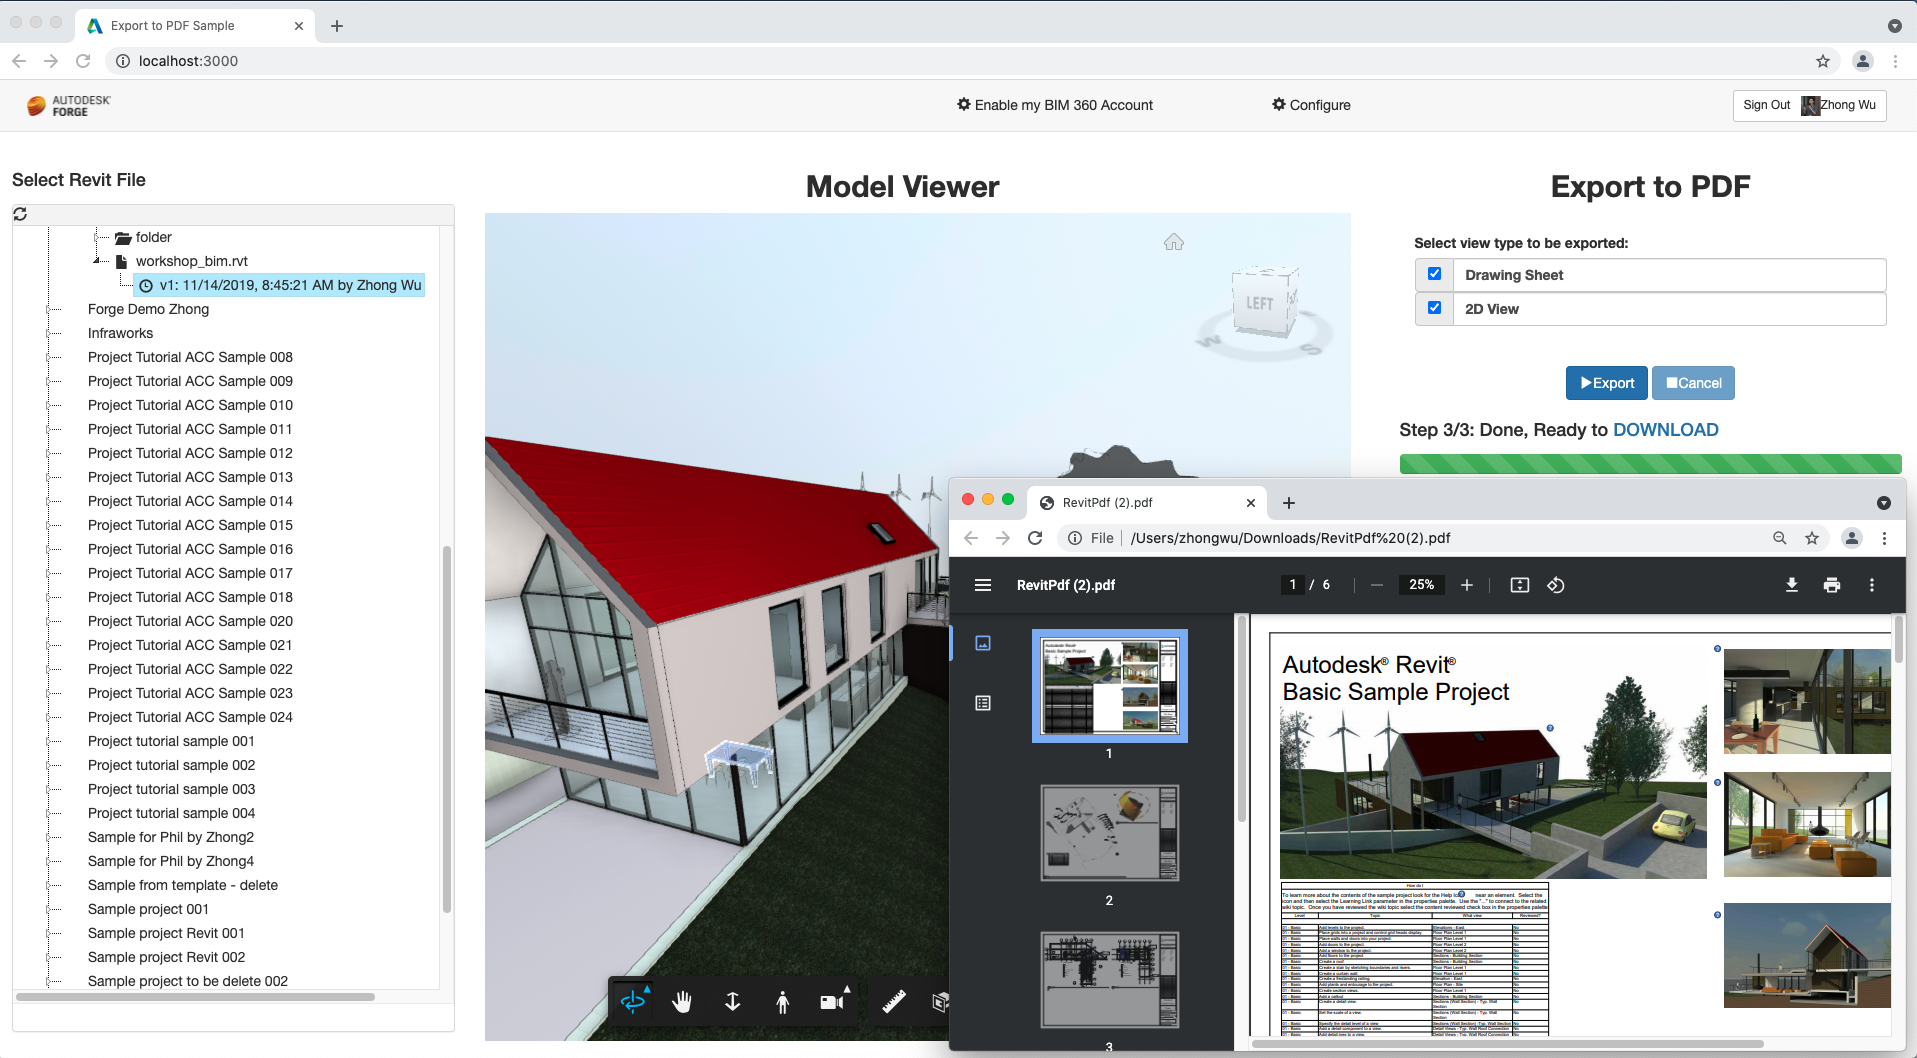
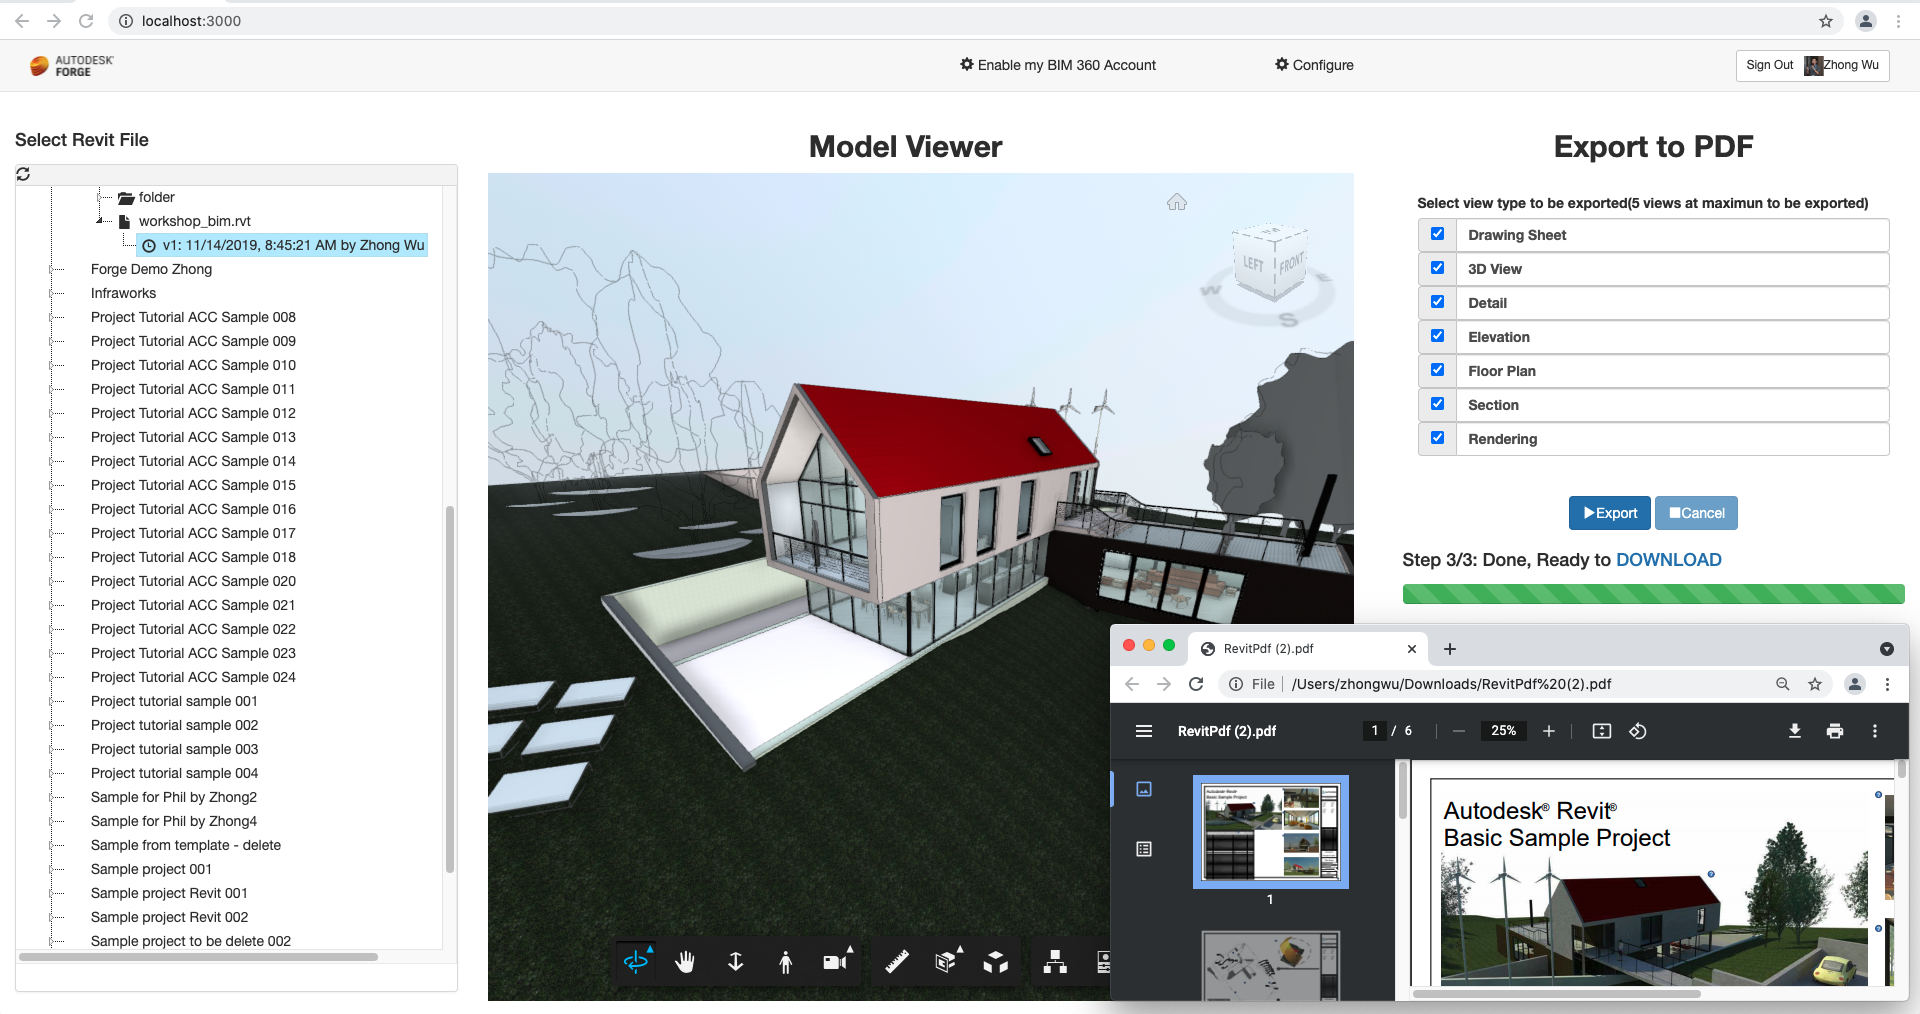
improve changes

diff --git a/public/index.html b/public/index.html
@@ -120,89 +120,121 @@
         <div class="row ">
           <div style="padding-top: 10px; text-align: center;">
             <form class="bs-example bs-example-form" role="form">
-                <div class="row">
-                  <div style="padding-top: 10px; text-align: left;">
-                      <div class="col-lg-12">
-                          <div style="text-align: left;">
-                              <label>Select view type to be exported:</label>
-                        </div>
-                        <div class="input-group">
-                          <span class="input-group-addon">
-                              <input type="checkbox" id='drawingSheet' checked=true>
-                          </span>
-                          <label class="form-control">Drawing Sheet</label>
-                      </div><!-- /input-group -->
-                      <div class="input-group">
-                        <span class="input-group-addon">
-                            <input type="checkbox" id='scheduleTable' checked=true>
-                        </span>
-                        <label class="form-control">2D View</label>
-                    </div><!-- /input-group -->
-                      </div>
-                  </div>
-              </div>
-            <br>
-                <div class="row" hidden>
-                    <div style="padding-top: 10px; text-align: left;">
-                        <div class="col-lg-12">
-                            <div style="text-align: left;">
-                                <label>Export or Import:</label>
-                          </div>
-                            <div class="input-group">
-                                <span class="input-group-addon">
-                                    <input type="radio" name='exportOrImport' value='export' checked>
-                                </span>
-                                <label class="form-control">Export parameters To Excel</label>
-                            </div><!-- /input-group -->
-                            <div class="input-group">
-                                <span class="input-group-addon">
-                                    <input type="radio" name='exportOrImport' value='import'>
-                                </span>
-                                <label class="form-control">Import parameters from Excel</label>
-                            </div><!-- /input-group -->                          
-                            <div class="form-group" id="importSharedParameters" hidden>
-                                <label for="inputFile">Input Spreadsheet file( Please export first to check the Excel format )</label>
-                                <input type="file" class="form-control-file" id="inputFile">
-                            </div>
-                        </div>
+              <div class="row">
+                <div style="padding-top: 10px; text-align: left;">
+                  <div class="col-lg-12">
+                    <div style="text-align: left;">
+                      <label>Select view types</label>
                     </div>
+                    <div class="input-group">
+                      <span class="input-group-addon">
+                        <input type="checkbox" id='drawingSheet' checked=true>
+                      </span>
+                      <label class="form-control">Drawing Sheet</label>
+                    </div><!-- /input-group -->
+                    <div class="input-group">
+                      <span class="input-group-addon">
+                        <input type="checkbox" id='threeD' checked=true>
+                      </span>
+                      <label class="form-control">3D View</label>
+                    </div><!-- /input-group -->
+                    <div class="input-group">
+                      <span class="input-group-addon">
+                        <input type="checkbox" id='detail' checked=true>
+                      </span>
+                      <label class="form-control">Detail</label>
+                    </div><!-- /input-group -->
+                    <div class="input-group">
+                      <span class="input-group-addon">
+                        <input type="checkbox" id='elevation' checked=true>
+                      </span>
+                      <label class="form-control">Elevation</label>
+                    </div><!-- /input-group -->
+                    <div class="input-group">
+                      <span class="input-group-addon">
+                        <input type="checkbox" id='floorPlan' checked=true>
+                      </span>
+                      <label class="form-control">Floor Plan</label>
+                    </div><!-- /input-group -->
+                    <div class="input-group">
+                      <span class="input-group-addon">
+                        <input type="checkbox" id='section' checked=true>
+                      </span>
+                      <label class="form-control">Section</label>
+                    </div><!-- /input-group -->
+                    <div class="input-group">
+                      <span class="input-group-addon">
+                        <input type="checkbox" id='rendering' checked=true>
+                      </span>
+                      <label class="form-control">Rendering</label>
+                    </div><!-- /input-group -->
+                    <div style="text-align: left;">
+                      <label>Note: Only 5 views at maximun can be exported by this sample  </label>
+                    </div>
+                  </div>
                 </div>
+              </div>
+              <br>
+              <div class="row" hidden>
+                <div style="padding-top: 10px; text-align: left;">
+                  <div class="col-lg-12">
+                    <div style="text-align: left;">
+                      <label>Export or Import:</label>
+                    </div>
+                    <div class="input-group">
+                      <span class="input-group-addon">
+                        <input type="radio" name='exportOrImport' value='export' checked>
+                      </span>
+                      <label class="form-control">Export parameters To Excel</label>
+                    </div><!-- /input-group -->
+                    <div class="input-group">
+                      <span class="input-group-addon">
+                        <input type="radio" name='exportOrImport' value='import'>
+                      </span>
+                      <label class="form-control">Import parameters from Excel</label>
+                    </div><!-- /input-group -->
+                    <div class="form-group" id="importSharedParameters" hidden>
+                      <label for="inputFile">Input Spreadsheet file( Please export first to check the Excel format )</label>
+                      <input type="file" class="form-control-file" id="inputFile">
+                    </div>
+                  </div>
+                </div>
+              </div>
             </form>
             <!-- </div> -->
-
-
+        
+        
             <div class="btn-group btn-lg">
-
-                <div style="padding-top: 10px;">
-
-                  <button class="btn btn-primary" id="startWorkitem">
-                    <span class="glyphicon glyphicon-play"></span>Export
-                  </button>
-                  <button class="btn btn-primary" id="cancelBtn" disabled>
-                    <span class="glyphicon glyphicon-stop"></span>Cancel
-                  </button>
-                </div>
+        
+              <div style="padding-top: 10px;">
+        
+                <button class="btn btn-primary" id="startWorkitem">
+                  <span class="glyphicon glyphicon-play"></span>Export
+                </button>
+                <button class="btn btn-primary" id="cancelBtn" disabled>
+                  <span class="glyphicon glyphicon-stop"></span>Cancel
+                </button>
               </div>
-            <br />       
+            </div>
+            <br />
             <div class="row">
-                <div style="text-align: left;">
-                  <label id="statusText">
-                    <h4>Progress</h4>
-                  </label>
+              <div style="text-align: left;">
+                <label id="statusText">
+                  <h4>Progress</h4>
+                </label>
+              </div>
+            </div>
+            <div class="row">
+              <div>
+                <div class="progress progress-striped active">
+                  <div id='parametersUpdateProgressBar' class="progress-bar progress-bar-success" role="progressbar"
+                    aria-valuenow="60" aria-valuemin="0" aria-valuemax="100" style="width: 0%;">
+                    <span class="sr-only">40% 完成</span>
+                  </div>
                 </div>
               </div>
-              <div class="row">
-                <div>
-                    <div class="progress progress-striped active">
-                        <div id='parametersUpdateProgressBar' class="progress-bar progress-bar-success" role="progressbar"
-                             aria-valuenow="60" aria-valuemin="0" aria-valuemax="100"
-                             style="width: 0%;">
-                            <span class="sr-only">40% 完成</span>
-                        </div>
-                    </div>
-                </div>
-              </div>                
-
+            </div>
+        
           </div>
         </div>
       </div>

diff --git a/public/js/ForgeDesignAutomation.js b/public/js/ForgeDesignAutomation.js
@@ -28,7 +28,7 @@ $(document).ready(function () {
         }
     });
 
-    $('#startWorkitem').click(startWorkitem);
+    $('#startWorkitem').click(export2Pdf);
     $('#cancelBtn').click(async function(){
         if (workingItem != null) {
             try {
@@ -94,7 +94,7 @@ socketio.on(SOCKET_TOPIC_WORKITEM, (data)=>{
 
 
 
-async function startWorkitem() {
+async function export2Pdf() {
     const instanceTree = $('#sourceHubs').jstree(true);
     if( instanceTree == null ){
         alert('Can not get the user hub');
@@ -120,41 +120,35 @@ async function startWorkitem() {
         return;
     }
 
-    // exporting = $('input[name="exportOrImport"]:checked').val() === 'export';
     const drawingSheet = $('#drawingSheet')[0].checked;
-    const scheduleTable = $('#scheduleTable')[0].checked;
+    const threeD    = $('#threeD')[0].checked;
+    const detail    = $('#detail')[0].checked;
+    const elevation = $('#elevation')[0].checked;
+    const floorPlan = $('#floorPlan')[0].checked;
+    const section   = $('#section')[0].checked;
+    const rendering = $('#rendering')[0].checked;
 
-    if( !drawingSheet && !scheduleTable ){
+    if( !drawingSheet && !threeD && !detail && !elevation && !floorPlan){
         alert('Please at least select one parameter you want to Export|Import');
         return;
     }
 
     const inputJson = { 
         DrawingSheet : drawingSheet,
-        ScheduleTable: scheduleTable
+        ThreeD: threeD,
+        Detail: detail,
+        Elevation:elevation,
+        FloorPlan:floorPlan,
+        Section:section,
+        Rendering:rendering
       };
 
       
     try {
         let res = null;
-        // if(exporting){
-            updateStatus('started');
-            res = await exportToPdfs( sourceNode.original.storage, inputJson );
-            console.log('The pdf file is exported');
-        // }
-        // else {
-        //     if (_fileInputForm == null || _fileInputForm.files.length === 0){
-        //         alert('Please select input Excel first');
-        //         return;
-        //     }
-        //     updateStatus('started');
-        //     var file = _fileInputForm.files[0];
-        //     const storageUrl = await uploadExcel(file);
-        //     console.log( storageUrl );
-        //     // updateStatus('uploaded');
-        //     res = await importExcel( sourceNode.original.storage, storageUrl , inputJson,  sourceNode.parent, fileName );
-        //     console.log('The parameters are imported');
-        // }
+        updateStatus('started');
+        res = await exportToPdfs(sourceNode.original.storage, inputJson);
+        console.log('The pdf file is exported');
         console.log(res);
         workingItem = res.workItemId;
         updateStatus(res.workItemStatus);

diff --git a/ExportToPdfsPlugin/ExportToPdfs.cs b/ExportToPdfsPlugin/ExportToPdfs.cs
@@ -95,19 +95,25 @@ namespace ExportToPdfsApp
                     .OfClass(typeof(View))
                     .Cast<View>()
                     .Where(vw => (
-                    inputParams.DrawingSheet && vw.ViewType == ViewType.DrawingSheet && !vw.IsTemplate
-                    || inputParams.ScheduleTable && vw.ViewType == ViewType.DraftingView
-                        )
-                    ).ToList();
+                    !vw.IsTemplate && vw.CanBePrinted
+                    && (inputParams.DrawingSheet && vw.ViewType == ViewType.DrawingSheet
+                    || inputParams.ThreeD    && vw.ViewType == ViewType.ThreeD
+                    || inputParams.Detail    && vw.ViewType == ViewType.Detail
+                    || inputParams.Elevation && vw.ViewType == ViewType.Elevation
+                    || inputParams.FloorPlan && vw.ViewType == ViewType.FloorPlan
+                    || inputParams.Rendering && vw.ViewType == ViewType.Rendering
+                    || inputParams.Section   && vw.ViewType == ViewType.Section )
+                    )
+                ).ToList();
 
                 Console.WriteLine("the number of views: " + views.Count);
 
+                // add the limitation for 5 views as max
                 IList<ElementId> viewIds = new List<ElementId>();
-                foreach (View view in views)
+                for(int i =0; i< 5; ++i)
                 {
-                    //ViewSheet viewSheet = view as ViewSheet;
-                    Console.WriteLine(view.Name);
-                    viewIds.Add(view.Id);
+                    Console.WriteLine(views[i].Name +@", view type is: " + views[i].ViewType.ToString());
+                    viewIds.Add(views[i].Id);
                 }
 
 
@@ -133,13 +139,19 @@ namespace ExportToPdfsApp
     internal class InputParams
     {
         public bool DrawingSheet { get; set; } = true;
-        public bool ScheduleTable { get; set; } = true;
+        public bool ThreeD { get; set; } = true;
+        public bool Detail { get; set; } = true;
+        public bool Elevation { get; set; } = true;
+        public bool FloorPlan { get; set; } = true;
+        public bool Section { get; set; } = true;
+        public bool Rendering { get; set; } = true;
+
         static public InputParams Parse(string jsonPath)
         {
             try
             {
                 if (!File.Exists(jsonPath))
-                    return new InputParams { DrawingSheet = true, ScheduleTable = true };
+                    return new InputParams { DrawingSheet = true, ThreeD = true, Detail = true, Elevation = true, FloorPlan = true, Section = true, Rendering = true };
 
                 string jsonContents = File.ReadAllText(jsonPath);
                 return JsonConvert.DeserializeObject<InputParams>(jsonContents);

diff --git a/README.md b/README.md
@@ -126,6 +126,7 @@ After installing Github desktop for Windows, on the Git Shell, if you see a ***e
 - Currently Revit Cloud Worksharing is not supported by the Design Automation.  The scenario that this sample demonstrates is applicable only with a file-based Revit model. 
 - Client JavaScript requires modern browser.
 - The sample only supports Revit Design Automation Engine 2022.
+- Only 5 views at maximun could be exported by this sample.
 
 ## License
 
